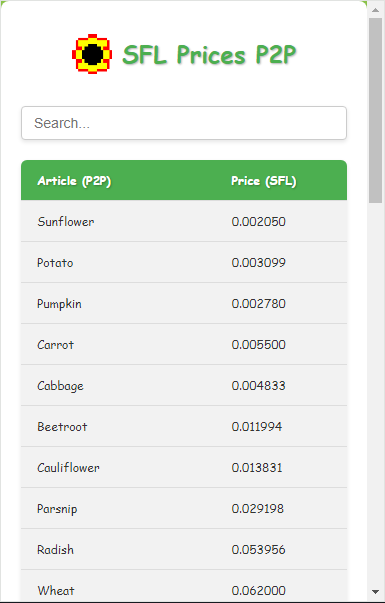
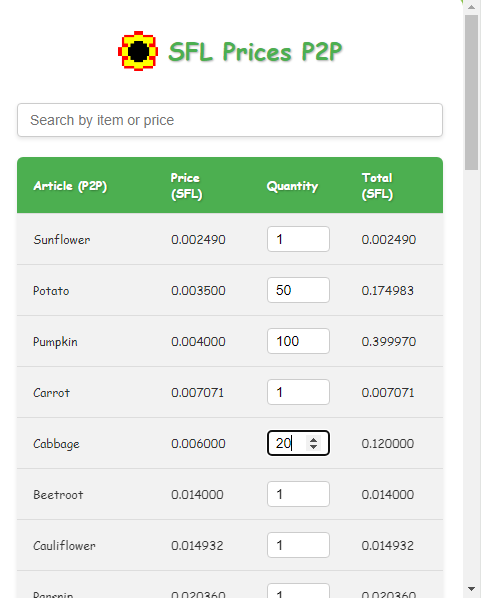
v1.2

diff --git a/popup.html b/popup.html
@@ -1,47 +1,53 @@
 <!DOCTYPE html>
-<html>
+<html lang="en">
 <head>
   <meta charset="UTF-8">
+  <meta name="viewport" content="width=device-width, initial-scale=1.0">
   <title>SFL Prices P2P</title>
   <link rel="stylesheet" href="styles.css">
 </head>
 <body>
   <div class="container">
     <div class="header">
-      <img src="images/icon.png" alt="SFL Prices P2P" class="header-icon">
+      <img src="images\icon.png" alt="Header Icon" class="header-icon">
       <h1>SFL Prices P2P</h1>
     </div>
-	 <div class="search-container">
-      <input type="text" id="searchInput" placeholder="Search..." oninput="filterTable()">
+	<div class="search-container">
+      <input type="text" id="searchInput" placeholder="Search by item or price">
     </div>
+
     <div id="priceData"></div>
-    <p id="updatedAt" class="updated-text"></p>
-    <div id="loading" class="loading-container">
+
+    <div class="loading-container" id="loading">
       <div class="loading-spinner"></div>
-      <p>Cargando precios...</p>
+      <p>Loading prices...</p>
     </div>
-    <div id="donationContainer" class="donation-container">
-      <button class="donation-button" id="donationButton">
-        <img src="images/donate.png" alt="Donar" class="donation-icon">
+
+    <div class="donation-container">
+      <a href="#" class="donation-button" id="donationButton">
+        <img src="images\donate.png" alt="Donation Icon" class="donation-icon">
         Donate
-      </button>
+      </a>
     </div>
-    <div id="donationModal" class="donation-modal">
+
+    <div class="donation-modal" id="donationModal">
       <div class="donation-modal-content">
         <span class="close-button">&times;</span>
-        <h2>Donation</h2>
         <p>You can donate only Matic to the following wallet (Polygon Matic)</p>
         <p class="wallet-address">0xc218c27Ea8DBdEB83a8b539Ea1e36d2A54EB002c</p>
       </div>
     </div>
-    <div class="credits">
+
+    <p class="updated-text" id="updatedAt"></p>
+
+ <div class="credits">
     <p>Version: <span id="version"></span></p>
       <p>Developed by <a href="https://github.com/josevdr95new" target="_blank">josevdr95 and GPT 3.5</a></p>
 	  <p>API <a href="https://sfl.world/" target="_blank">sfl.world</a></p>
       <p>Visit the <a href="https://github.com/josevdr95new/SFL-PricesP2P" target="_blank"> GitHub repository</a></p>
     </div>
   </div>
- 
+
   <script src="script.js"></script>
 </body>
 </html>

diff --git a/script.js b/script.js
@@ -16,8 +16,14 @@ fetch('https://sfl.world/api/v1/prices')
     itemHeader.textContent = 'Article (P2P)';
     const priceHeader = document.createElement('th');
     priceHeader.textContent = 'Price (SFL)';
+    const quantityHeader = document.createElement('th');
+    quantityHeader.textContent = 'Quantity';
+    const totalHeader = document.createElement('th');
+    totalHeader.textContent = 'Total (SFL)';
     headerRow.appendChild(itemHeader);
     headerRow.appendChild(priceHeader);
+    headerRow.appendChild(quantityHeader);
+    headerRow.appendChild(totalHeader);
     tableHeader.appendChild(headerRow);
 
     // Crear filas de la tabla
@@ -27,8 +33,23 @@ fetch('https://sfl.world/api/v1/prices')
       itemCell.textContent = item;
       const priceCell = document.createElement('td');
       priceCell.textContent = price.toFixed(6);
+      const quantityCell = document.createElement('td');
+      const quantityInput = document.createElement('input');
+      quantityInput.type = 'number';
+      quantityInput.value = '1';
+      quantityInput.min = '1';
+	  
+      quantityInput.addEventListener('input', () => {
+        const totalCell = row.querySelector('td:last-child');
+        totalCell.textContent = (price * quantityInput.value).toFixed(6);
+      });
+      quantityCell.appendChild(quantityInput);
+      const totalCell = document.createElement('td');
+      totalCell.textContent = price.toFixed(6);
       row.appendChild(itemCell);
       row.appendChild(priceCell);
+      row.appendChild(quantityCell);
+      row.appendChild(totalCell);
       tableBody.appendChild(row);
     });
 
@@ -68,7 +89,7 @@ window.addEventListener('click', (event) => {
   }
 });
 
-//Search
+// Search
 function filterTable() {
   const searchInput = document.getElementById('searchInput');
   const searchTerm = searchInput.value.toLowerCase().trim();
@@ -76,7 +97,7 @@ function filterTable() {
 
   tableRows.forEach(row => {
     const itemCell = row.querySelector('td:first-child');
-    const priceCell = row.querySelector('td:last-child');
+    const priceCell = row.querySelector('td:nth-child(2)');
     const itemText = itemCell.textContent.toLowerCase();
     const priceText = priceCell.textContent.toLowerCase();
 

diff --git a/styles.css b/styles.css
@@ -202,8 +202,6 @@ th {
   text-decoration: underline;
 }
 
-
-
 .search-container {
   display: flex;
   justify-content: center;
@@ -211,7 +209,7 @@ th {
 }
 
 .search-container input {
-  width: 300px;
+  width: 400px;
   padding: 8px 12px;
   font-size: 14px;
   border: 1px solid #ccc;
@@ -219,15 +217,20 @@ th {
   box-shadow: 0 2px 4px rgba(0, 0, 0, 0.1);
 }
 
-#version{
+table td input[type="number"] {
+  width: 48px;
+  padding: 4px 8px;
+  font-size: 14px;
+  border: 1px solid #ccc;
+  border-radius: 4px;
+}
+
+#version {
   font-weight: bold;
   color: #007BFF;
 }
 
-#donationModal > div > p.wallet-address{
+#donationModal > div > p.wallet-address {
   font-weight: bold;
   color: blue;
 }
-
-
-
